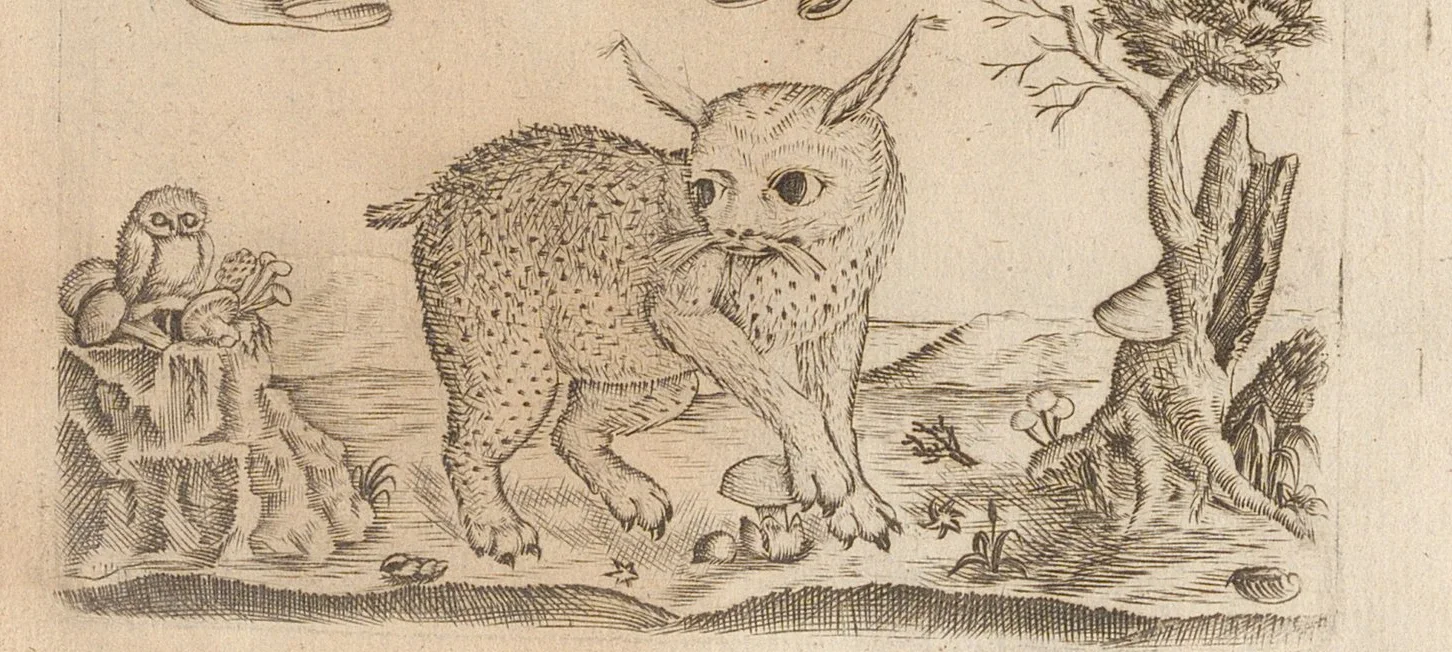
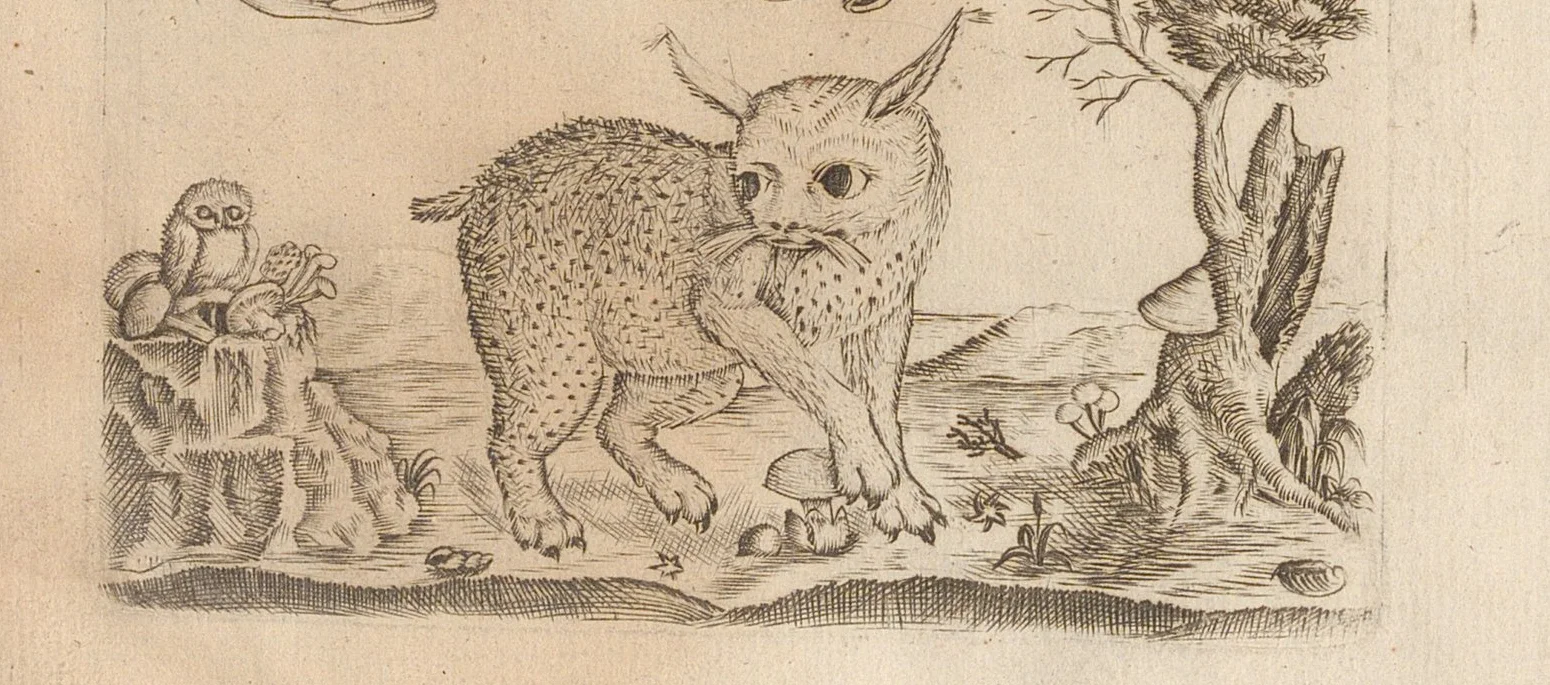
fix(mycology): reveal mushrooms left of the owl in quote bg
Widen the crop to include the mushroom cluster at the owl's feet. ParallaxImage
gains oversize + objectPosition props; the quote bg uses a smaller oversize
(less side-cropping at 80vh) and a left-biased object-position so the left
mushrooms stay in frame across desktop widths. Hero/join keep the defaults.

diff --git a/src/components/ParallaxImage.tsx b/src/components/ParallaxImage.tsx
@@ -10,12 +10,17 @@ import { useRef, useEffect } from 'react';
  */
 export default function ParallaxImage({
   src, alt = '', className = '', strength = 0.12, loading = 'lazy',
+  oversize = 0.15, objectPosition = 'center',
 }: {
   src: string;
   alt?: string;
   className?: string;
   strength?: number;
   loading?: 'lazy' | 'eager';
+  /** Fraction the image is grown beyond the box (margin for the parallax shift).
+   *  Keep strength <= oversize so the edge is never revealed. */
+  oversize?: number;
+  objectPosition?: string;
 }) {
   const ref = useRef<HTMLImageElement>(null);
 
@@ -54,6 +59,7 @@ export default function ParallaxImage({
 
   return (
     /* eslint-disable-next-line @next/next/no-img-element */
-    <img ref={ref} src={src} alt={alt} loading={loading} className={`absolute inset-x-0 -top-[15%] h-[130%] w-full object-cover ${className}`} style={{ willChange: 'transform' }} />
+    <img ref={ref} src={src} alt={alt} loading={loading} className={`absolute inset-x-0 w-full object-cover ${className}`}
+      style={{ willChange: 'transform', top: `${-oversize * 100}%`, height: `${100 + oversize * 200}%`, objectPosition }} />
   );
 }

diff --git a/src/app/collections/mycology/_components/QuoteBlock.tsx b/src/app/collections/mycology/_components/QuoteBlock.tsx
@@ -63,7 +63,7 @@ export default function QuoteBlock({ quotes, bgUrl, imageCredit }: { quotes: Quo
 
   return (
     <section ref={sectionRef} className="relative bg-dark overflow-hidden min-h-[60vh] md:min-h-[80vh] flex items-center">
-      {bgUrl && <ParallaxImage src={bgUrl} className="opacity-55" strength={0.1} />}
+      {bgUrl && <ParallaxImage src={bgUrl} className="opacity-55" strength={0.045} oversize={0.05} objectPosition="35% 50%" />}
       <div className="absolute inset-0 bg-dark/40" />
       <div className="relative z-10 w-full max-w-3xl mx-auto px-6 py-16 text-center">
         <div className="flex items-center justify-center gap-3 mb-8">
